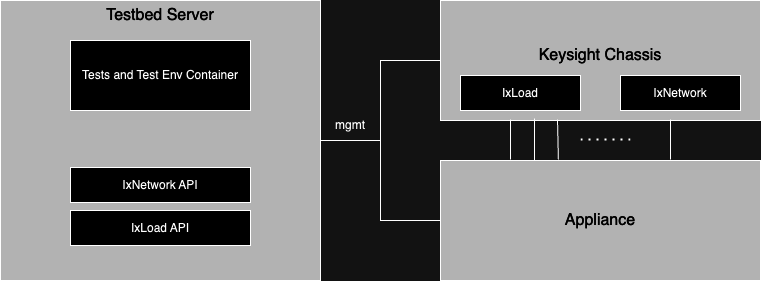
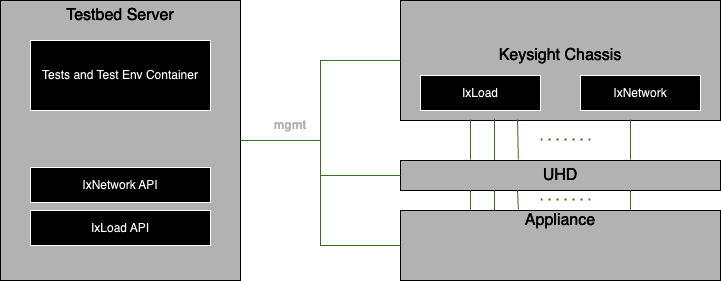
Updates to HA document, added additional models and test cases, fixed internal links

diff --git a/documentation/high-avail/keysight_ha_testplan.md b/documentation/high-avail/keysight_ha_testplan.md
@@ -9,18 +9,24 @@
     - [Setup configuration](#setup-configuration)
     - [Test Methodology](#test-methodology)
     - [Test cases](#test-cases)
-        - [Test case # 1 - Link Loss](#test-case1-link-loss)
-            - [Test objective](#test-objective)
-            - [Test steps](#test-steps)
-            - [Test results](#test-results)
-        - [Test case # 2 – DPU Loss](#test-case2-dpuloss)
-            - [Test objective](#test-objective-1)
-            - [Test steps](#test-steps-1)
-            - [Test results](#test-results-1)
-        - [Test case # 3 – Tor Loss](#test-case3-tor-loss)
-            - [Test objective](#test-objective-2)
-            - [Test steps](#test-steps-2)
-            - [Test results](#test-results-2)
+        - [Test case # 1 - Link Loss Local SmartSwitch](#test-case1-link-loss-local-smartswitch-)
+            - [Test objective 1](#test-objective-1)
+            - [Steps for Test Case 1](#steps-for-test-case-1)
+        - [Test case # 2 - Link Loss Seperate SmartSwitch](#test-case2-link-loss-separate-smartswitch)
+            - [Test objective 2](#test-objective-2)
+            - [Test steps 2](#steps-for-test-case-2)
+        - [Test case # 3 – DPU Loss Local SmartSwitch](#test-case3-dpuloss-local-smartswitch)
+            - [Test objective 3](#test-objective-3)
+            - [Test steps 3](#steps-for-test-case-3)
+        - [Test case # 4 – DPU Loss Separate SmartSwitch](#test-case4-dpuloss-separate-smartswitch)
+            - [Test objective 4](#test-objective-4)
+            - [Test steps 4](#steps-for-test-case-4)
+        - [Test case # 5 – Tor Loss Local SmartSwitch](#test-case5-tor-loss-local-smartswitch)
+            - [Test objective 5](#test-objective-5)
+            - [Test steps 5](#steps-for-test-case-5)
+        - [Test case # 6 – Tor Loss Separate SmartSwitch](#test-case6-tor-loss-separate-smartswitch)
+            - [Test objective 6](#test-objective-6)
+            - [Test steps 6](#steps-for-test-case-6)
 
 ## Overview
 The purpose of these tests is to evaluate various High Availability (HA) scenarios associated with testing planned and unplanned events in the SmartSwitch system.
@@ -32,6 +38,10 @@ These tests are targeted on a fully functioning SmartSwitch system. We will be m
 Tests will run on the following testbeds.
 
 ![HA_TestBed](images/ha_testbed.png)
+
+Model expanded to show Keysight chassis, UHD, and SmartSwitch.  The UHD and SmartSwitchs can be used to conifgure various test case scenarios and network configurations.  For example, simulating DPUs within the same SmartSwitch or pairing distant DPUs to form HA sets.  The UHD has the ability to be configured in such a way to simulate individual ToRs.  The UHD shall additionally be used with Stateful traffic for VxLan encapsulation and decapsulation.
+
+![HA_SmartSwitch_Topology](images/smartswtich_ha_topology.png)
 
 ## Topology
 ### Configuration for HA testing
@@ -46,54 +56,142 @@ Following test methodology will be used for measuring HA switchover and performa
 * Data traffic will be sent from  server to server, server to T1 and T1 to server.
 * Depending on the test case, switchovers/failovers will be generated and measured.
 * Switchover between DPUs will be measured by noting down the precise time of the switchover/failover event.  Traffic generator will create those timestamps and provide us with the recovery statistics.
-* HERE...In order to measure the control plane downtime convergence, we will be pinging the DUT loopback interface to measure how long it takes to respond back to the ping once it comes back online.
-* HERE...Similarly for measuring protocol downtime convergence can be neasured for concerned protocol, in this case it is BGP by polling the state of the protocol. 
+
 
 ## Test cases
-### Test case1 Link Loss
-#### Test Objective
+### Test case1 Link Loss Local SmartSwitch 
+#### Test Objective 1
+In this scenario we will test the switchover between an Active DPU to it's paired Standby DPU.
 
 ![HA_LinkLoss](images/ha_linkloss_test.png)
-
-#### Test steps
-* In this scenario we will test the switchover between an Active DPU to it's paired Standby DPU.
-* Configure network between HA sets with same traffic types within same ENIs.
+#### Steps for Test Case 1
+* Configure 2 DPUs networked within the same SmartSwitch forming a HA set between DPU0 and DPU1.
+* The SmartSwitch configuration will consist of 2 DPUs sharing the same network configurations such as: IPs, MACs, VLan/VxLan, ENIs.
+* The UHD will be configured to split ToR traffic into two separate entities.
+* There will be a physical link between Tor1 and port1 of both DPU0 and DPU1.  Additionally, a physical connection between Tor2 and port2 of DPU0 and DPU1.
+* The HA set shall be configured within the same SmartSwitch.
 * Verify links are up and start all protocols and verify traffic is established.
+* Enable csv logging and check the state of the DPUs through the API.
 * Apply and start traffic stateful and stateless.
 * Verify traffic is flowing without any loss.
-* Enable csv logging and check the state of the DPUs through the API.
-* Through mgmt port remove port 2 link connection from the Active DPU.
-* Mark start time at beginning of test.
+* Through mgmt port remove link connection between Tor1 and DPU0 port 1.
+* Mark start time at beginning of test as link connection is removed.
+* There should be 100% link failure with the Active DPU during switchover.
+* DPU1 shall become the new Active DPU in the HA set.
 * Mark time when the Standby DPU becomes Active and fully running traffic.
+* Measure convergence time from start of the link removal on DPU0 and DPU1 switchover.
+* Using traffic generator tools to verify metrics associated with number of Concurrent Connections, Connection rate, and TCP/UDP failures collect data before, during and after switchover.
 
-### Test case2 DPULoss
-#### Test Objective
 
-![HA_LinkLoss](images/ha_dpuloss_test.png)
+### Test case2 Link Loss Separate SmartSwitch
+#### Test Objective 2
+In this scenario we will test the switchover between an Active DPU to it's paired DPU from a separate SmartSwitch
 
-#### Test steps
-* In this scenario we will test the switchover between an Active DPU to it's paired Standby DPU.
-* Configure network between HA sets with same traffic types within same ENIs.
+![HA_LinkLoss](images/ha_linkloss_test_notlocal.png)
+#### Steps for Test Case 2
+* The SmartSwitch configuration will consist of 2 DPUs sharing the same network configurations such as: IPs, MACs, VLan/VxLan, ENIs.  Both DPUs will be placed into their own SmartSwitch.
+* The UHD will be configured to split ToR traffic into two separate entities.
+* There will be a physical link between Tor1 and port1 of both DPU0 and DPU3.  Additionally, a physical connection between Tor2 and port2 of DPU0 and DPU3.
+* The HA set shall be in separate SmartSwitches.
 * Verify links are up and start all protocols and verify traffic is established.
+* Enable csv logging and check the state of the DPUs through the API.
 * Apply and start traffic stateful and stateless.
 * Verify traffic is flowing without any loss.
+* Through mgmt port remove link connection between Tor1 and DPU0 port 1.
+* Mark start time at beginning of test as link connection is removed.
+* There should be 100% link failure with the Active DPU during switchover.
+* DPU1 shall become the new Active DPU in the HA set.
+* Mark time when the Standby DPU becomes Active and fully running traffic.
+* Measure convergence time from start of the link removal on DPU0 and DPU3 switchover.
+* Using traffic generator tools to verify metrics associated with number of Concurrent Connections, Connection rate, and TCP/UDP failures collect data before, during and after switchover.
+
+
+### Test case3 DPULoss Local SmartSwitch
+#### Test Objective 3
+
+![HA_DPULoss_Local](images/ha_dpuloss_test.png)
+#### Steps for Test Case 3
+* Configure 2 DPUs networked within the same SmartSwitch forming a HA set.
+* The SmartSwitch configuration will consist of 2 DPUs sharing the same network configurations such as: IPs, MACs, VLan/VxLan, ENIs.
+* The UHD will be configured to split ToR traffic into two separate entities.
+* There will be a physical link between Tor1 and port1 of both DPU0 and DPU1.  Additionally, a physical connection between Tor2 and port2 of DPU0 and DPU1.
+* The HA set shall be configured within the same SmartSwitch.
+* Verify links are up and start all protocols and verify traffic is established.
 * Enable csv logging and check the state of the DPUs through the API.
+* Apply and start traffic stateful and stateless.
+* Verify traffic is flowing without any loss.
 * Through mgmt port poweroff or reboot Active DPU.
-* Mark start time at beginning of test.
+* Mark start time at beginning of test as DPU is removed from topology.
+* There should be 100% failure with the Active DPU during switchover.
+* DPU1 shall become the new Active DPU in the HA set.
 * Mark time when the Standby DPU becomes Active and fully running traffic.
+* Measure convergence time from start of the link removal on DPU0 and DPU1 switchover.
+* Using traffic generator tools to verify metrics associated with number of Concurrent Connections, Connection rate, and TCP/UDP failures collect data before, during and after switchover.
 
-### Test case3 ToR Loss
-#### Test Objective
+
+### Test case4 DPULoss Separate SmartSwitch
+#### Test Objective 4
+
+![HA_DPULoss_NotLocal](images/ha_dpuloss_not_local.png)
+
+#### Steps for Test Case 4
+* The SmartSwitch configuration will consist of 2 DPUs sharing the same network configurations such as: IPs, MACs, VLan/VxLan, ENIs.  Both DPUs will be placed into their own SmartSwitch.
+* The UHD will be configured to split ToR traffic into two separate entities.
+* There will be a physical link between Tor1 and port1 of both DPU0 and DPU3.  Additionally, a physical connection between Tor2 and port2 of DPU0 and DPU3.
+* The HA set shall be in separate SmartSwitches.
+* Verify links are up and start all protocols and verify traffic is established.
+* Enable csv logging and check the state of the DPUs through the API.
+* Apply and start traffic stateful and stateless.
+* Verify traffic is flowing without any loss.
+* Through mgmt port poweroff or reboot Active DPU.
+* Mark start time at beginning of test as DPU is removed from topology.
+* There should be 100% failure with the Active DPU during switchover.
+* DPU3 shall become the new Active DPU in the HA set.
+* Mark time when the Standby DPU becomes Active and fully running traffic.
+* Measure convergence time from start of the link removal on DPU0 and DPU3 switchover.
+* Using traffic generator tools to verify metrics associated with number of Concurrent Connections, Connection rate, and TCP/UDP failures collect data before, during and after switchover.
+
+
+### Test case5 ToR Loss Local SmartSwitch
+#### Test Objective 5
 
 ![HA_LinkLoss](images/ha_torloss_test.png)
-
-#### Test steps
-* In this scenario we will test the switchover between an Active DPU to it's paired Standby DPU.
-* Configure network between HA sets with same traffic types within same ENIs.
+#### Steps for Test Case 5
+* Configure 2 DPUs networked within the same SmartSwitch forming a HA set.
+* The SmartSwitch configuration will consist of 2 DPUs sharing the same network configurations such as: IPs, MACs, VLan/VxLan, ENIs.
+* The UHD will be configured to split ToR traffic into two separate entities.
+* There will be a physical link between Tor1 and port1 of both DPU0 and DPU1.  Additionally, a physical connection between Tor2 and port2 of DPU0 and DPU1.
+* The HA set shall be configured within the same SmartSwitch.
 * Verify links are up and start all protocols and verify traffic is established.
+* Enable csv logging and check the state of the DPUs through the API.
 * Apply and start traffic stateful and stateless.
 * Verify traffic is flowing without any loss.
-* Enable csv logging and check the state of the DPUs through the API.
 * Through mgmt port poweroff or reboot Tor1.
-* Mark start time at beginning of test.
+* Mark start time at beginning of test as DPU is removed from topology.
+* There should be 100% failure with the Active DPU during switchover.
+* DPU1 shall become the new Active DPU in the HA set.
 * Mark time when the Standby DPU becomes Active and fully running traffic.
+* Measure convergence time from start of the link removal on DPU0 and DPU1 switchover.
+* Using traffic generator tools to verify metrics associated with number of Concurrent Connections, Connection rate, and TCP/UDP failures collect data before, during and after switchover.
+
+
+### Test case6 ToR Loss Separate SmartSwitch
+#### Test Objective 6
+
+![HA_LinkLoss](images/ha_torloss_not_local.png)
+#### Steps for Test Case 6
+* The SmartSwitch configuration will consist of 2 DPUs sharing the same network configurations such as: IPs, MACs, VLan/VxLan, ENIs.  Both DPUs will be placed into their own SmartSwitch.
+* The UHD will be configured to split ToR traffic into two separate entities.
+* There will be a physical link between Tor1 and port1 of both DPU0 and DPU3.  Additionally, a physical connection between Tor2 and port2 of DPU0 and DPU3.
+* The HA set shall be in separate SmartSwitches.
+* Verify links are up and start all protocols and verify traffic is established.
+* Enable csv logging and check the state of the DPUs through the API.
+* Apply and start traffic stateful and stateless.
+* Verify traffic is flowing without any loss.
+* Through mgmt port poweroff or reboot Tor1.
+* Mark start time at beginning of test as Tor1 is removed from topology.
+* There should be 100% failure with the Active DPU during switchover.
+* DPU3 shall become the new Active DPU in the HA set.
+* Mark time when the Standby DPU becomes Active and fully running traffic.
+* Measure convergence time from start of the link removal on DPU0 and DPU3 switchover.
+* Using traffic generator tools to verify metrics associated with number of Concurrent Connections, Connection rate, and TCP/UDP failures collect data before, during and after switchover.
